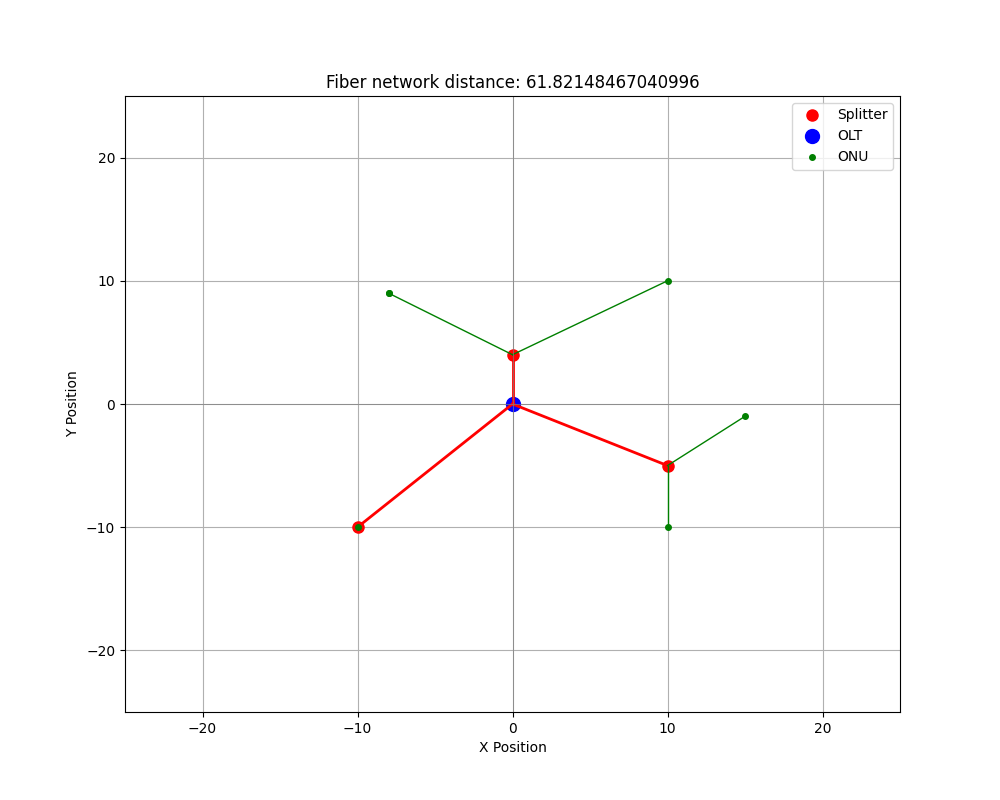
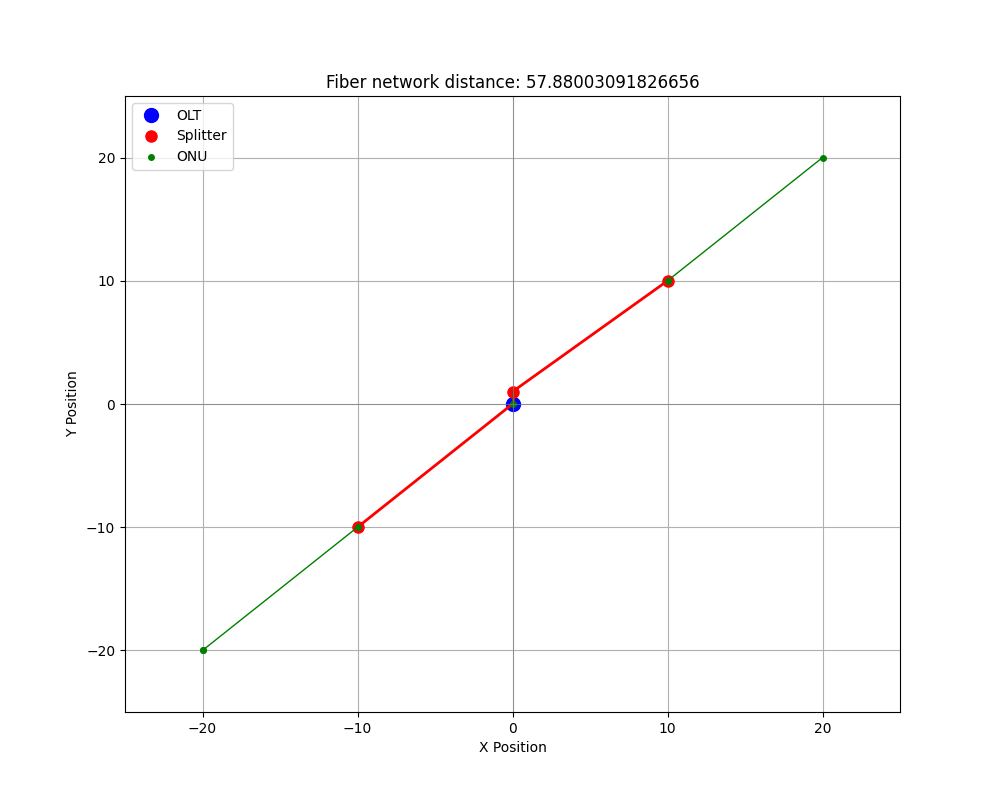
clear, still bad

diff --git a/GUI.py b/GUI.py
@@ -4,21 +4,17 @@ import pandas as pd
 import matplotlib.pyplot as plt
 from matplotlib.backends.backend_tkagg import FigureCanvasTkAgg
 import numpy as np
-import k_rand_lib  # Assuming you have this module
+from k_rand import calculate
 
-# Initialize the DataFrame to store points
 df = pd.DataFrame(columns=['x', 'y'])
 
-# Create the main application window
 root = tk.Tk()
 root.title("XY Plane with Points")
 
-# Variable to track the mode (add or remove)
 current_mode = "add"  # 'add' or 'remove'
 plane_size = 0
-canvas = None  # We will initialize the canvas here
+canvas = None  
 
-# Function to ask for the size of the plane
 def ask_plane_size():
     size = simpledialog.askinteger("Plane Size", "Enter the size of the plane (positive integer):")
     if size is None or size <= 0:
@@ -27,13 +23,11 @@ def ask_plane_size():
     else:
         create_plane(size)
 
-# Function to create the plane based on user input
 def create_plane(size):
     global plane_size
     plane_size = size
     update_plane_plot()
 
-# Function to update the plot with points
 def update_plane_plot():
     global canvas
     fig, ax = plt.subplots(figsize=(6, 6))
@@ -44,30 +38,24 @@ def update_plane_plot():
     ax.set_ylabel("Y")
     ax.grid(True)
 
-    # Plot all points
-    ax.scatter(df['x'], df['y'], color='red', zorder=5)
+    ax.scatter(df['x'], df['y'], color='green', zorder=5)
 
-    # If canvas exists, update it; otherwise, create a new one
     if canvas is not None:
-        canvas.get_tk_widget().destroy()  # Destroy the previous canvas
-    canvas = FigureCanvasTkAgg(fig, master=frame_plot)  # Recreate the canvas with the updated plot
+        canvas.get_tk_widget().destroy()  
+    canvas = FigureCanvasTkAgg(fig, master=frame_plot) 
     canvas.draw()
     canvas.get_tk_widget().pack(fill=tk.BOTH, expand=True)
 
-    # Bind mouse click event to add/remove point
     canvas.mpl_connect('button_press_event', on_canvas_click)
 
-# Function to handle mouse click on the canvas
 def on_canvas_click(event):
-    global df  # Ensure we're modifying the global df variable
+    global df  
     if event.inaxes is not None:
         x = int(round(event.xdata))
         y = int(round(event.ydata))
         
-        # Ensure coordinates are within bounds
         if -plane_size <= x <= plane_size and -plane_size <= y <= plane_size:
             if current_mode == "add":
-                # Add point using pd.concat() instead of append()
                 new_point = pd.DataFrame({'x': [x], 'y': [y]})
                 df = pd.concat([df, new_point], ignore_index=True)
                 update_plane_plot()
@@ -86,7 +74,6 @@ def on_canvas_click(event):
                 else:
                     messagebox.showerror("Point Not Found", "No point found close to the clicked coordinates within the margin.")
 
-# Function to toggle between 'add' and 'remove' mode
 def toggle_mode():
     global current_mode
     if current_mode == "add":
@@ -96,33 +83,26 @@ def toggle_mode():
         current_mode = "add"
         btn_toggle.config(text="Switch to Remove Mode")
 
-# Function to ask the user for max_splitters and trigger the calculation
-def calculate():
+def call_calculate():
     max_splitters = simpledialog.askinteger("Max Splitters", "Enter the maximum number of splitters:")
     if max_splitters is None or max_splitters <= 0:
         messagebox.showerror("Invalid Input", "Please enter a valid positive integer for max_splitters.")
     else:
-        # Pass both the df and max_splitters to the calculate function
-        k_rand_lib.calculate(df, max_splitters)
+        calculate(df, max_splitters)
 
-# Add the main buttons and set up the interface
 frame_controls = tk.Frame(root)
 frame_controls.pack(side=tk.LEFT, padx=10, pady=10)
 
 frame_plot = tk.Frame(root)
 frame_plot.pack(side=tk.RIGHT, padx=10, pady=10)
 
-# Button to toggle between add/remove mode
 btn_toggle = tk.Button(frame_controls, text="Switch to Remove Mode", command=toggle_mode)
 btn_toggle.pack(fill=tk.X, pady=5)
 
-# Button to calculate/optimize
-btn_calculate = tk.Button(frame_controls, text="Calculate", command=calculate)
+btn_calculate = tk.Button(frame_controls, text="Calculate", command=call_calculate)
 btn_calculate.pack(fill=tk.X, pady=5)
 
-# Ask for the plane size on launch
 ask_plane_size()
 
-# Start the Tkinter main loop
 root.mainloop()
 

diff --git a/random_noise.py b/random_noise.py
@@ -18,20 +18,24 @@ def add_noise(splitters_positions, distance):
         # Generate a random number between 0 and 1
         rand_num = random.random()
         
-        if rand_num < 0.5:  # 50% chance to stay
+        if rand_num < 0.2:  # 20% chance to stay
             new_positions.append((x, y))
         else:
-            # 50% chance to move in one of the 8 directions
-            direction = random.choice(['up', 'down', 'left', 'right'])
+            #move in one of the 8 directions
+            direction = random.choice(["up", "down", "left", "right", "up left", "up right", "down left", "down right"])
+
+            x2 = x
+            y2 = y
             
-            if direction == 'up':
-                new_positions.append((x, y + distance))
-            elif direction == 'down':
-                new_positions.append((x, y - distance))
-            elif direction == 'left':
-                new_positions.append((x - distance, y))
-            elif direction == 'right':
-                new_positions.append((x + distance, y))
+            if "up" in direction:
+                y2 += distance
+            elif "down" in direction:
+                y2 -= distance
+            elif "left" in direction:
+                x2 -= distance
+            elif "right" in direction:
+                x2 += distance
+            new_positions.append((x2,y2))
 
     return new_positions
 
@@ -76,7 +80,7 @@ def optimize_splitters_with_random_noise(onups, splitters_positions, max_iter, m
             stagnation = stagnation + 1
 
         if stagnation > max_stagnation:
-            distance = distance/2
+            distance = distance//2
         if distance < 1:
             break
         

diff --git a/k_rand.py b/k_rand.py
@@ -28,6 +28,33 @@ def optimize_splitters_with_krand(OLT, ONU_positions, num_splitters, max_iter, m
     return splitters_positions, ONU_positions, total_length, mst
 
 
+def calculate(ONU_positions, max_splitters):
+    OLT = (0,0)
+    file_path = "onu_points" + num + ".xlsx"
+    ONU_positions['splitter_id'] = -1
+    max_iter = 5000
+    max_stagnation = 50
+
+    best_splitters,best_onus,best_dist,best_mst = optimize_splitters_with_krand(OLT, ONU_positions, 1, max_iter, max_stagnation)
+
+    for num_splitters in range(3, min(len(ONU_positions)+1,max_splitters+1)):
+        c_splitters,c_onus,c_dist,c_mst = optimize_splitters_with_krand(OLT, ONU_positions, num_splitters, max_iter, max_stagnation)
+        print(num_splitters, c_dist)
+        
+        if c_dist<best_dist:
+            best_splitters = c_splitters
+            best_onus = c_onus
+            best_dist = c_dist
+            best_mst = c_mst
+        
+    file_path = os.path.join("k-rand_img" + "_krand_fiber_network" + ".png")
+    plot_network(best_splitters, best_mst, best_onus, file_path, best_dist)
+    print("final", best_dist)
+    print(best_splitters)
+    print(best_onus)
+
+
+
 def main():
     OLT = (0,0)
     file_path = "onu_points" + num + ".xlsx"
@@ -38,7 +65,7 @@ def main():
 
     best_splitters,best_onus,best_dist,best_mst = optimize_splitters_with_krand(OLT, ONU_positions, 1, max_iter, max_stagnation)
 
-    for num_splitters in range(2, len(ONU_positions)+1):
+    for num_splitters in range(1, len(ONU_positions)+1):
         c_splitters,c_onus,c_dist,c_mst = optimize_splitters_with_krand(OLT, ONU_positions, num_splitters, max_iter, max_stagnation)
         print(c_dist)
         

diff --git a/naive.py b/naive.py
@@ -11,13 +11,13 @@ from fiber_lib import *
 
 def move_splitter(splitter, direction, distance):  
     x, y = splitter  
-    if direction == "up":
+    if "up" in direction:
         y += distance
-    elif direction == "down":
+    elif "down" in direction:
         y -= distance
-    elif direction == "left":
+    elif "left" in direction:
         x -= distance
-    elif direction == "right":
+    elif "right" in direction:
         x += distance
     return (x, y)
 
@@ -44,8 +44,8 @@ def optimize_splitters_with_reassignment(onups, splitters_positions, max_iter, m
         best_ONU_positions = ONU_positions
         best_splitters_positions = splitters_positions
         
-        for distance in [1,4,16]:
-            for direction in ['up', 'down', 'left', 'right']:
+        for distance in [1,3,9,18]:
+            for direction in ["up", "down", "left", "right", "up left", "up right", "down left", "down right"]:
                 new_position = move_splitter(splitters_positions[chosen_splitter_index], direction, distance)
                 new_splitters_positions = swap(splitters_positions, chosen_splitter_index, new_position)            
                 new_ONU_positions = assign_ONU_to_splitters(new_splitters_positions, ONU_positions)

diff --git a/fiber_lib.py b/fiber_lib.py
@@ -68,10 +68,10 @@ def assign_ONU_to_splitters(splitters_positions, onus):
 def plot_network(splitters_positions, mst, ONU_positions, title, dist):
     plt.figure(figsize=(10, 8))
 
-    for idx, splitter in enumerate(splitters_positions):
-        plt.plot(splitter[0], splitter[1], 'ro', markersize=8, label='Splitter' if idx == 0 else "")  # Splitters in red
-
     plt.plot(splitters_positions[0][0], splitters_positions[0][1], 'bo', markersize=10, label='OLT')
+
+    for idx, splitter in enumerate(splitters_positions[1:]):
+        plt.plot(splitter[0], splitter[1], 'ro', markersize=8, label='Splitter' if idx == 0 else "")  # Splitters in red
 
     for i in range(mst.shape[0]):
         for j in range(mst.shape[1]):
